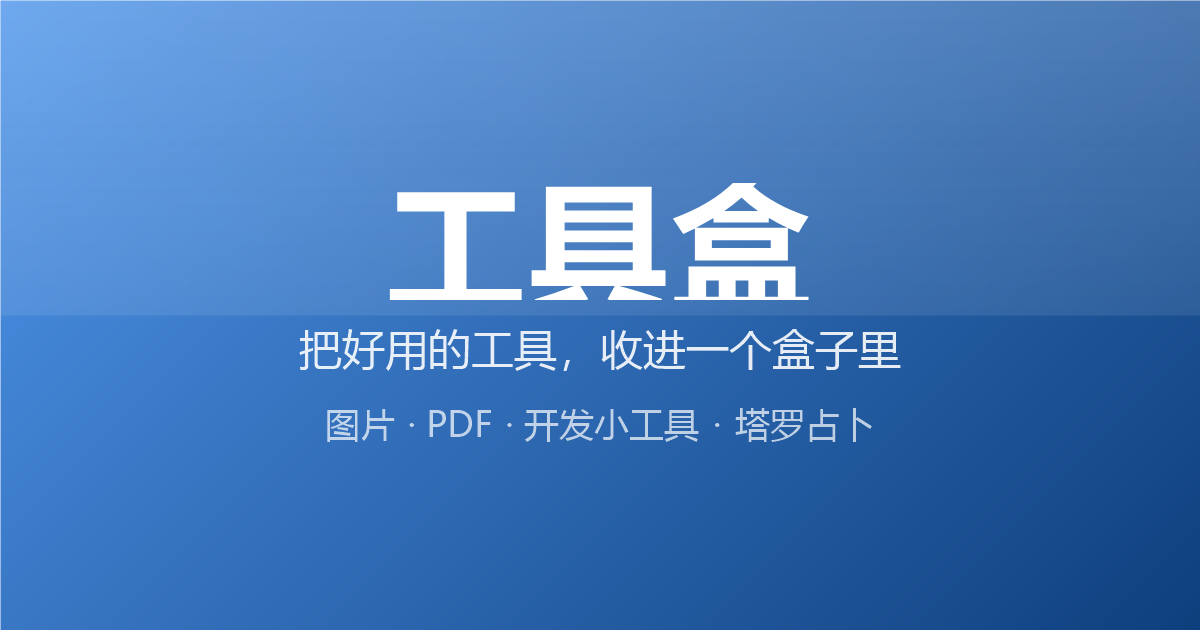
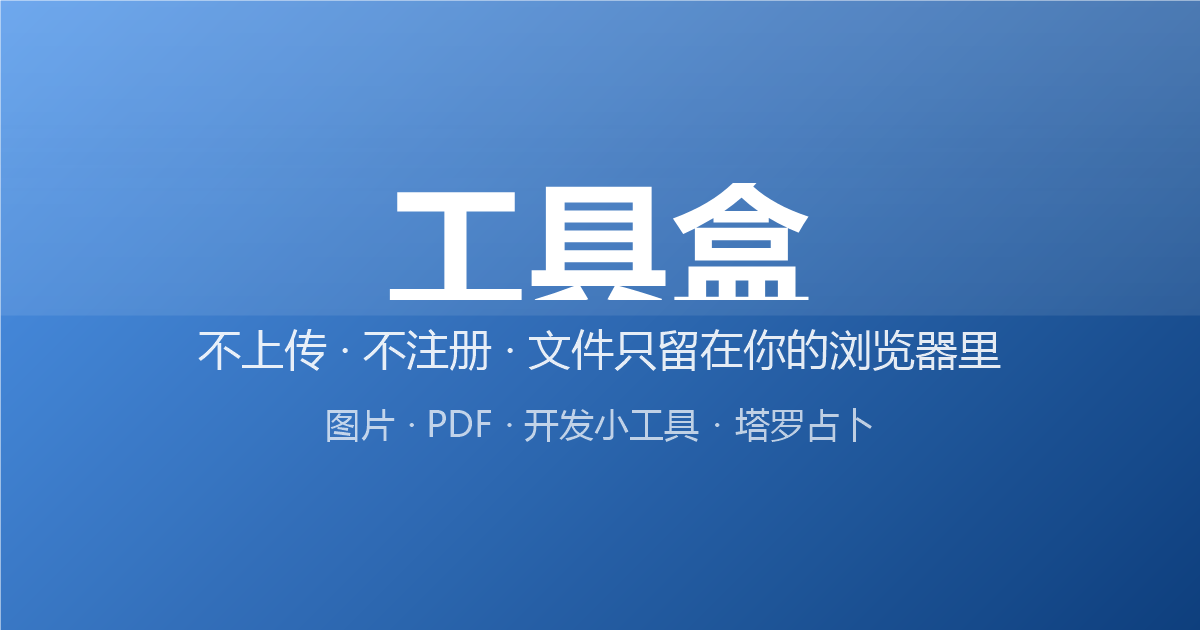
首页文案改为功能承诺 + 分享图生成中反馈

Changed region(s): [[0.1542, 0.5127, 0.8325, 0.6032]]

diff --git a/tarot/index.html b/tarot/index.html
@@ -187,7 +187,7 @@
     <div class="share-box" role="dialog" aria-label="解读分享图">
       <button class="share-close" id="shareClose" aria-label="关闭">×</button>
       <img id="shareImg" alt="星辉塔罗解读分享图">
-      <p class="share-hint">长按图片保存到相册,分享到朋友圈或小红书</p>
+      <p class="share-hint" id="shareHint">长按图片保存到相册,分享到朋友圈或小红书</p>
       <div class="share-actions">
         <a class="btn-again" id="shareDownload" href="#" download="星辉塔罗-解读.png">下载 PNG</a>
         <button class="btn-again" id="shareClose2" type="button">关闭</button>

diff --git a/tarot/js/share-card.js b/tarot/js/share-card.js
@@ -184,10 +184,13 @@
     if (!modal || !img) return;
     if (!reading || !reading.cards || !reading.cards.length) return;
     modal.classList.remove('hidden');
+    var hint = document.getElementById('shareHint');
+    if (hint) hint.textContent = '正在生成…';
     ensureQr(function (qrLib) {
       var c = build(reading, summary, qrLib);
       var url = c.toDataURL('image/png');
       img.src = url;
+      if (hint) hint.textContent = '长按图片保存到相册,分享到朋友圈或小红书';
       if (dl) { dl.href = url; dl.download = '星辉塔罗-' + reading.cards[0].card.name + '.png'; }
     });
   }

diff --git a/index.html b/index.html
@@ -32,7 +32,7 @@
     <header class="hero">
       <p class="hero-kicker" id="kicker">&#x2726; 工具盒 &#183; 全部本地运行</p>
       <h1 class="hero-title">工具盒</h1>
-      <p class="hero-sub">把好用的工具，收进一个盒子里。</p>
+      <p class="hero-sub">不上传，不注册，打开就用——文件只留在你的浏览器里。</p>
     </header>
 
     <div class="search-wrap">
